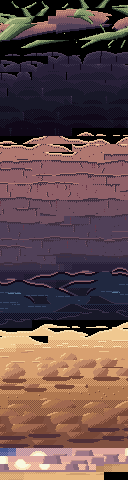
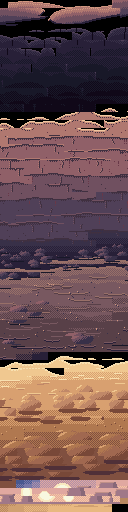
Intro scene 1: dry canyon wash, no water drops, succulents or sparkles
The pool becomes a sandy wash with talus and wind ripples; the rim plants are gone.
intro.c no longer creates the drops or sparkles. Logo, timers and MUS_INTRO unchanged.

diff --git a/tools/cutscene-generator/scenes/intro_drops/intro_drops.px.js b/tools/cutscene-generator/scenes/intro_drops/intro_drops.px.js
@@ -1,20 +1,22 @@
 // Intro scene 1, redrawn for Star Wars: KYBER.
 // Emerald: water drops fall from jungle leaves into a dark pool, the GAME FREAK logo forms, then the
 //          camera pans up past bushes and tall grass to mountains, and a Flygon silhouette flies off.
-// Here:    dew drips off a desert succulent on the canyon rim into a shadowed spring pool before dawn (the GAME FREAK
-//          logo forms over it, as Emerald), then the camera rises past the canyon walls, boulders and a
-//          dune crest to the twin suns coming up over the Jundland flats, and a transport ship flies off.
+// Here:    a dry canyon on Tatooine before dawn: rock walls over a sandy wash (the GAME FREAK logo forms over
+//          it, as Emerald), then the camera rises past the canyon walls, boulders and a dune crest to the
+//          twin suns coming up over the Jundland flats, and a transport ship flies off. No water and no
+//          plants (owner, 2026-11-03): Emerald's drops, ripples and glints are not created in src/intro.c.
 //
 // Layout follows the game exactly (src/intro.c, Task_Scene1_Load / Task_Scene1_PanUp):
 //   one tileset (bg.png, 8-bit PNG holding 16 BG palettes) + one map per BG, 256x256 each:
-//   BG0 bg0_map.bin bank 4  front: the near rim and a desert succulent on top, dark floor rim at rows 175+   VOFS 40 -> -218 (0.75 px/frame)
-//   BG1 bg1_map.bin bank 3  canyon walls on top, the dark pool basin below row 110  VOFS 24 -> -148 (0.5 px/frame)
+//   BG0 bg0_map.bin bank 3  front: rock ledges at the top corners, dark floor rim at rows 175+   VOFS 40 -> -218 (0.75 px/frame)
+//   BG1 bg1_map.bin bank 3  canyon walls on top, the sandy wash below row 110      VOFS 24 -> -148 (0.5 px/frame)
 //   BG2 bg2_map.bin bank 2  dune crest at rows 25-50, boulders below               VOFS 80 -> -49  (0.375 px/frame)
 //   BG3 bg3_map.bin bank 5  dawn sky, suns, mesas, the flats                         VOFS 0 (static)
 //   The pan runs game frames 560-904 (gIntroFrameCounter); the map's second screen block is empty, so a
 //   layer that slides past its bottom simply leaves the screen.
 //   OBJ: flygon.png (64x32, one color, affine-scaled as it flies off) becomes the ship.
-// Water drops, ripples and sparkles (drops_logo.png, sparkle.png) are plain water and stay Emerald's.
+// drops_logo.png (the drops share their sheet with the GAME FREAK logo), drops.pal and sparkle.png are
+// still loaded but nothing draws the drops or sparkles.
 //
 // Build: node ../../bin/pxl.js build intro_drops.px.js   (game files land in out/game/)
 
@@ -36,9 +38,9 @@ const B3 = [
   "#b07870", // 8  rock lit
   "#d09880", // 9  dawn rim light
   "#f0c8a0", // 10 brightest rim
-  "#202840", // 11 water, dark
-  "#384868", // 12 water, mid
-  "#587898", // 13 water glint
+  "#584048", // 11 sand in shadow
+  "#785860", // 12 sand
+  "#987068", // 13 sand catching the dawn
   "#403040", // 14 rock crevice
   "#683848", // 15 warm crevice
 ]
@@ -254,77 +256,59 @@ scene("bg1", { w: 256, h: 256 }, (c) => {
     const x = Math.floor(r() * 256), k = Math.floor(r() * ledges.length), len = 4 + Math.floor(r() * 9)
     c.clip((xx, yy) => c.is(xx, yy, "45678"), () => { for (let y = ledges[k] + 3; y < ledges[k] + 3 + len; y += 1) if (y % 2 || y < ledges[k] + 6) c.px(x, y, 15) })
   }
-  // the basin: wet rock, darkening to the pool
-  c.dither(0, 110, 256, 8, 4, 3, 0.5)
-  c.rect(0, 118, 256, 138, 3)
-  c.dither(0, 130, 256, 8, 3, 2, 0.5)
-  c.rect(0, 138, 256, 118, 2)
-  // the pool: a ragged shore, dark water that holds the dawn sky in a few streaks
-  const shore = (x, y) => {
-    const dx = (x - 128) / 122, dy = (y - 152) / (24 + 2 * Math.sin(x / 9) + 1.5 * Math.sin(x / 4 + 1))
-    return dx * dx + dy * dy <= 1
+  // the canyon floor: a dry sandy wash in the shade, talus at the foot of the walls
+  c.dither(0, 110, 256, 6, 4, 3, 0.5)
+  c.rect(0, 116, 256, 140, 3)
+  const r2 = c.rng(31)
+  const wash = (x) => edge(x, 124, 3, 2.2)                     // where the sand meets the talus
+  for (let x = 0; x < 256; x++) {
+    const top = wash(x)
+    for (let y = top; y < 256; y++) {
+      const d = y - top
+      // far sand catches the sky glow; it cools toward the viewer, banded with Emerald's checker seams
+      let col = d < 2 ? 13 : d < 8 ? ((x + y) % 2 ? 13 : 12) : d < 22 ? 12 : d < 28 ? ((x + y) % 2 ? 12 : 11) : 11
+      if (y >= 178) col = (x + y) % 2 ? 11 : 3                   // fading into the near shadow
+      if (y >= 186) col = 3
+      c.px(x, y, col)
+    }
   }
-  for (let y = 120; y < 184; y++) for (let x = 0; x < 256; x++) {
-    if (!shore(x, y)) { if (shore(x, y - 1) || shore(x, y + 2)) c.px(x, y, 4); continue }
-    const edgeRow = !shore(x, y - 1) || !shore(x, y - 2)
-    let col = 11
-    if (edgeRow) col = 1                                           // the bank's shadow on the water
-    else if (y > 168) col = (x + y) % 2 ? 11 : 1
-    c.px(x, y, col)
+  // wind ripples in the sand: long soft arcs, a lit lip over a shade line
+  for (let i = 0; i < 34; i++) {
+    const x = Math.floor(r2() * 256), y = 130 + Math.floor(r2() * 44), w = 12 + Math.floor(r2() * 24)
+    for (let k = 0; k < w; k++) {
+      const xx = (x + k) & 255, yy = y + Math.round(1.5 * Math.sin((k / w) * Math.PI))
+      if (!c.is(xx, yy, "bcd") || !c.is(xx, yy + 1, "bcd")) continue
+      const lip = c.is(xx, yy, "d") ? 9 : c.is(xx, yy, "c") ? 13 : 12, sh = c.is(xx, yy, "d") ? 12 : 11
+      c.px(xx, yy, lip); c.px(xx, yy + 1, sh === 11 && yy > 160 ? 3 : sh)
+    }
   }
-  // sky reflections: broken horizontal streaks, brightest toward the middle
-  for (const [x, y, w, k] of [[70, 140, 46, 12], [130, 143, 30, 12], [92, 147, 60, 12], [56, 152, 22, 12], [176, 150, 34, 12],
-    [104, 141, 14, 13], [120, 148, 8, 13], [150, 156, 26, 12], [84, 160, 40, 12], [188, 162, 18, 12], [40, 164, 16, 12]]) {
-    for (let i = 0; i < w; i++) if ((i + y) % 7 !== 0) c.px(x + i, y, k)
+  // talus: fallen stones piled where the walls meet the wash
+  const stone = (cx, cy, rx, ry, lit, mid, dark) => {
+    for (let y = cy - ry; y <= cy + ry; y++) for (let x = cx - rx; x <= cx + rx; x++) {
+      const u = (x - cx) / rx, v = (y - cy) / ry
+      if (u * u + v * v > 1) continue
+      const l = -0.7 * u - 0.9 * v
+      c.px(x & 255, y, l > 0.5 ? lit : l > -0.2 ? ((l > 0.1 || (x + y) % 2) ? mid : dark) : dark)
+    }
+    for (let x = cx - rx + 1; x <= cx + rx + 2; x++) c.px(x & 255, cy + ry + 1, 2)  // shadow on the sand
   }
-  // a lit lip of wet stone along the far bank
-  for (let x = 12; x < 244; x++) for (let y = 120; y < 152; y++) if (!shore(x, y) && shore(x, y + 1) && y < 140) { c.px(x, y, 7); c.px(x, y - 1, 5); break }
+  for (let i = 0; i < 30; i++) {
+    const x = Math.floor(r2() * 256), y = 114 + Math.floor(r2() * 10), rx = 2 + Math.floor(r2() * 5)
+    stone(x, y, rx, Math.max(2, rx - 2), 6, 5, 4)
+  }
+  // a few bigger boulders out on the wash, half sunk in the sand
+  for (const [x, y, rx, ry] of [[34, 150, 9, 5], [178, 144, 7, 4], [226, 162, 11, 6], [104, 166, 6, 3]]) stone(x, y, rx, ry, 7, 6, 4)
+  // pebbles and grit
+  for (let i = 0; i < 60; i++) {
+    const x = Math.floor(r2() * 256), y = 128 + Math.floor(r2() * 48)
+    if (c.is(x, y, "bcd")) { c.px(x, y, 4); if (r2() < 0.5) c.px(x - 1, y - 1, 9) }
+  }
 })
 
-// ------------------------------------------------------------------ BG0: the near rim and a desert succulent (bank 4)
-// The drip comes from a tough agave-like plant growing on the canyon rim beside the spring: the night's dew
-// runs down its long leaf to the tip over the pool, as Emerald's leaf (owner's pick over a vaporator drain pipe,
-// 2026-11-01; the first version was a rock overhang that read as a brown leaf).
+// ------------------------------------------------------------------ BG0: the near rim (bank 3)
+// Rock ledges at both top corners and a row of dark foreground rocks along the bottom. Nothing grows here
+// (owner, 2026-11-03: no water or plants on Tatooine; the succulent, the drops and the pool are gone).
 
-// The big drop's traced slide path in bg0 pixels (right to left), ending where it hangs at (120,81).
-const U = [[262, 28], [256, 30], [240, 33], [222, 39], [204, 45], [187, 49], [172, 51], [160, 53], [150, 56], [142, 59],
-  [135, 62], [130, 65], [125, 70], [122, 76], [120, 80]]
-// Resample a polyline every 0.5 px, with arc length and the unit normal pointing up-right (the object side).
-function samples(pts) {
-  const out = []; let s = 0
-  for (let i = 0; i + 1 < pts.length; i++) {
-    const [x0, y0] = pts[i], [x1, y1] = pts[i + 1], len = Math.hypot(x1 - x0, y1 - y0)
-    let nx = -(y1 - y0) / len, ny = (x1 - x0) / len
-    if (nx - ny < 0) { nx = -nx; ny = -ny }
-    for (let k = 0; k < len; k += 0.5) out.push({ x: x0 + (x1 - x0) * k / len, y: y0 + (y1 - y0) * k / len, nx, ny, s: s + k })
-    s += len
-  }
-  const [lx, ly] = pts[pts.length - 1], p = out[out.length - 1]
-  out.push({ x: lx, y: ly, nx: p.nx, ny: p.ny, s })
-  for (const q of out) q.t = q.s / s
-  return out
-}
-const LX = -0.6, LY = -0.8 // dawn light from the upper left
-// A body of varying width along a path: width(t) from base (t=0) to tip (t=1). side: 0 = centred on the
-// path, 1 = the path is the body's underside (it grows toward the up-right normal).
-// paint(x, y, u, v, q): u = lit amount -1..1 across the body, v = signed offset (-1 underside .. 1 top).
-function body(c, pts, width, side, paint, box = [0, 0, 256, 120]) {
-  const S = samples(pts).map((q) => {
-    const w = width(q.t), o = side ? w / 2 : 0
-    return { ...q, w, cx: q.x + q.nx * o, cy: q.y + q.ny * o }
-  })
-  for (let y = box[1]; y < box[3]; y++) for (let x = box[0]; x < box[2]; x++) {
-    let best = null, br = 1e9
-    for (const q of S) {
-      if (q.w <= 0.2) continue
-      const dx = x + 0.5 - q.cx, dy = y + 0.5 - q.cy, r = Math.hypot(dx, dy) / (q.w / 2)
-      if (r < br) { br = r; best = { q, dx, dy } }
-    }
-    if (!best || br > 1) continue
-    const { q, dx, dy } = best, h = q.w / 2
-    paint(x, y, (dx * LX + dy * LY) / h, (dx * q.nx + dy * q.ny) / h, q, br)
-  }
-}
 // rock shelves on the canyon's near rim: flat sunlit tops, dark undersides
 function shelf(c, poly, ramp, under) {
   const m = (x, y) => x >= 0 && x < 256 && y >= 0 && inPoly(poly, x + 0.5, y + 0.5)
@@ -358,45 +342,10 @@ function floorRim(c) {
   for (const [lx] of lumps) for (let y = floorTop(lx + 1); y < floorTop(lx + 1) + 10; y++) if (floor(lx, y)) c.px(lx, y, 1)
 }
 
-// Bank 4: 1-9 the canyon rock (= bank 3), 10-15 a dusty sage green.
-const PB = ["#000000", "#100818", "#181828", "#282038", "#383048", "#504058", "#705060", "#906068", "#b07870", "#d09880",
-  "#202820", "#384838", "#506048", "#688058", "#90a070", "#c0c890"]
-use(PB)
+use(B3)
 scene("bg0", { w: 256, h: 256 }, (c) => {
-  // a thick fleshy leaf, agave-like: dark underside, lit top face, pale lit edge, small spines on the rim
-  const leaf = (x, y, u, v, q, r) => {
-    let k = r > 0.82 ? 10 : v < -0.4 ? (u > 0.3 ? 12 : 11) : u > 0.55 ? 15 : u > 0.15 ? 14 : u > -0.25 ? ((x + y) % 2 ? 14 : 13) : u > -0.6 ? 13 : 12
-    if (r > 0.82 && v > 0.3 && u > 0.2) k = 14
-    c.px(x, y, k)
-  }
-  // width along a leaf: full at the base, tapering to a solid 2 px point at the tip
-  const blade = (wmax, curve) => (t) => t > 0.995 ? 0 : Math.max(1.8, wmax * Math.pow(1 - t, curve) * Math.min(1, t * 5 + 0.45))
-  // agave teeth: small dark hooks along the top edge (never the underside, where the drop runs)
-  const spines = (pts, width, every) => {
-    for (const q of samples(pts)) {
-      if (q.t < 0.12 || q.t > 0.85 || Math.round(q.s * 2) % (every * 2)) continue
-      const w = width(q.t) + 0.6, x = Math.round(q.x + q.nx * w), y = Math.round(q.y + q.ny * w)
-      c.px(x, y, 10); c.px(Math.round(x + q.nx - 0.8), Math.round(y + q.ny), 10)
-    }
-  }
-  // the plant on the right rim: back leaves first, then the long leaf reaching over the pool
-  body(c, [[224, 25], [218, 12], [210, 2]], blade(11, 0.9), 0, leaf, [196, 0, 236, 32])
-  body(c, [[232, 25], [242, 13], [252, 4]], blade(11, 0.9), 0, leaf, [220, 0, 256, 32])
-  body(c, [[222, 27], [204, 18], [188, 14], [176, 15]], blade(11, 1), 0, leaf, [166, 6, 232, 36])
   shelf(c, SHELF_R, ROCK, 3)
-  // the long leaf: its underside is the drop's path, from the rosette down to the tip at (120, 80)
-  const L = [[238, 24], [224, 31], ...U.slice(4)], LW = blade(16, 1.05)
-  body(c, L, LW, 1, leaf, [110, 8, 252, 84])
-  spines(L, LW, 11)
-  // drop 2 falls from a spine on the long leaf's edge at (196, 50)
-  for (let y = 46; y <= 49; y++) c.px(196, y, y < 48 ? 11 : 10)
-  c.px(196, 50, 15)
-  // a smaller plant on the left rim, one leaf drooping to (48, 40)
-  body(c, [[16, 21], [10, 9], [4, 2]], blade(9, 0.9), 0, leaf, [0, 0, 30, 30])
-  body(c, [[24, 21], [34, 9], [44, 3]], blade(9, 0.9), 0, leaf, [12, 0, 54, 30])
   shelf(c, SHELF_L, ROCK, 3)
-  body(c, [[20, 25], [32, 26], [42, 31], [48, 40]], blade(10, 1), 1, leaf, [12, 14, 60, 46])
-  c.px(48, 41, 15)
   floorRim(c)
 })
 
@@ -441,7 +390,7 @@ sprite("ship", { w: 64, h: 32, mx: true }, `
 // ------------------------------------------------------------------ game files
 
 gba(D + "bg.png", {
-  bg: ["bg0", "bg1", "bg2", "bg3"], slots: [4, 3, 2, 5], banks: { 2: B2, 3: B3, 4: PB, 5: B5 },
+  bg: ["bg0", "bg1", "bg2", "bg3"], slots: [3, 3, 2, 5], banks: { 2: B2, 3: B3, 5: B5 },
   maps: [D + "bg0_map.bin", D + "bg1_map.bin", D + "bg2_map.bin", D + "bg3_map.bin"],
 })
 gba(D + "flygon.png", { image: "ship", pal: SHIP })

diff --git a/game/src/intro.c b/game/src/intro.c
@@ -1116,7 +1116,6 @@ void CB2_InitCopyrightScreenAfterTitleScreen(void)
     SetUpCopyrightScreen();
 }
 
-#define sBigDropSpriteId data[0]
 
 static void Task_Scene1_Load(u8 taskId)
 {
@@ -1155,7 +1154,7 @@ static void Task_Scene1_Load(u8 taskId)
     CpuCopy16(&gPlttBufferUnfaded[OBJ_PLTT_ID(0)], &gPlttBufferUnfaded[OBJ_PLTT_ID(10) + 5], PLTT_SIZEOF(16 - 5));
     CpuCopy16(&gPlttBufferUnfaded[OBJ_PLTT_ID(0)], &gPlttBufferUnfaded[OBJ_PLTT_ID( 9) + 6], PLTT_SIZEOF(16 - 6));
     CreateGameFreakLogoSprites(DISPLAY_WIDTH / 2, DISPLAY_HEIGHT / 2, 0);
-    gTasks[taskId].sBigDropSpriteId = CreateWaterDrop(236, -14, 0x200, 1, 0x78, FALSE);
+    // No water drops on Tatooine: the big drop, the two small drops and the sparkles are not created.
     gTasks[taskId].func = Task_Scene1_FadeIn;
 }
 
@@ -1180,26 +1179,13 @@ static void Task_Scene1_FadeIn(u8 taskId)
 
 static void Task_Scene1_WaterDrops(u8 taskId)
 {
-    if (gIntroFrameCounter == TIMER_BIG_DROP_START)
-        gSprites[gTasks[taskId].sBigDropSpriteId].sState = 1;
-
+    // Only the GAME FREAK logo is left of Emerald's drop sequence; the timers are Emerald's, so the
+    // pan still starts on the same beat of MUS_INTRO.
     if (gIntroFrameCounter == TIMER_LOGO_APPEAR)
         CreateTask(Task_BlendLogoIn, 0);
 
-    if (gIntroFrameCounter == TIMER_BIG_DROP_FALLS)
-        gSprites[gTasks[taskId].sBigDropSpriteId].sState = 2;
-
     if (gIntroFrameCounter == TIMER_LOGO_BLEND_OUT)
         CreateTask(Task_BlendLogoOut, 0);
-
-    if (gIntroFrameCounter == TIMER_SMALL_DROP_1)
-        CreateWaterDrop(48, 0, 0x400, 5, 0x70, TRUE);
-
-    if (gIntroFrameCounter == TIMER_SMALL_DROP_2)
-        CreateWaterDrop(196, 10, 0x400, 9, 0x80, TRUE);
-
-    if (gIntroFrameCounter == TIMER_SPARKLES)
-        CreateTask(Task_CreateSparkles, 0);
 
     if (gIntroFrameCounter > TIMER_SPARKLES)
     {

diff --git a/tools/cutscene-generator/scenes/intro_drops/review/README.md b/tools/cutscene-generator/scenes/intro_drops/review/README.md
@@ -27,3 +27,16 @@ from a farm on the rim, and B, a desert succulent on the rim beside the spring. 
   leaf tooth at (196, 50).
 - The GAME FREAK logo is back (owner: "restore the game freak logo during the transition, we should just keep it").
 - `round2_succulent_rom.gif` (frames 250-1300 every 3rd, real speed) and `round2_succulent_sheet.png`.
+
+## Round 3 (2026-11-03): a dry canyon, no water and no plants
+
+Owner: Tatooine is rocky and sandy, with no water or plants here. Keep the ground and the backdrop, then the
+pan to the skyline, and keep the music exactly as it is.
+
+- BG1: the pool and its wet basin are gone. The canyon floor is now a dry sandy wash in the shade: talus at the
+  foot of the walls, wind ripples, a few half-sunk boulders and grit. Bank 3 entries 11-13 (the water) are sand.
+- BG0: both succulents and the drip spine are gone; the rock ledges at the top corners and the dark floor rim
+  stay. BG0 now shares bank 3 with BG1 (bank 4 is unused).
+- `src/intro.c`: the big drop, the two small drops (and their ripples) and the sparkles are no longer created.
+  The GAME FREAK logo, every timer and `MUS_INTRO` are unchanged, so the pan starts on the same beat.
+- `round3_rom.gif` (frames 250-1300 every 3rd, real speed) and `round3_sheet.png`.

diff --git a/tools/cutscene-generator/TODO.md b/tools/cutscene-generator/TODO.md
@@ -2,7 +2,7 @@
 
 **Status:** READY (owner, 2026-11-01: "ready to be used"). The tool is pxl (vendored from crsolver/claude-pxl, MIT) plus GBA output; intro scene 2
 (the bike ride) is in the game as KAEL/MIRA's speeder ride on Tatooine with Tusken raiders (round 3, APPROVED and
-shipped 2026-11-01; review files in `scenes/intro_bike/review/`). Intro scene 1 (`scenes/intro_drops`: canyon drip at dawn,
+shipped 2026-11-01; review files in `scenes/intro_bike/review/`). Intro scene 1 (`scenes/intro_drops`: dry canyon at dawn, round 3 drops the water and plants,
 pan up to the twin suns, ship flyover, no logo) is in the game, round 1 APPROVED and shipped 2026-11-01 (`scenes/intro_drops/review/`).
 Intro scene 3 (`scenes/intro_legends`) is in the game: capture pod, sand and sea backgrounds shipped 2026-11-01. The three
 titans (GREATKRAYT, SANDO, EXOGORTH) are PLACEHOLDERS, parked as a follow-up task: see
